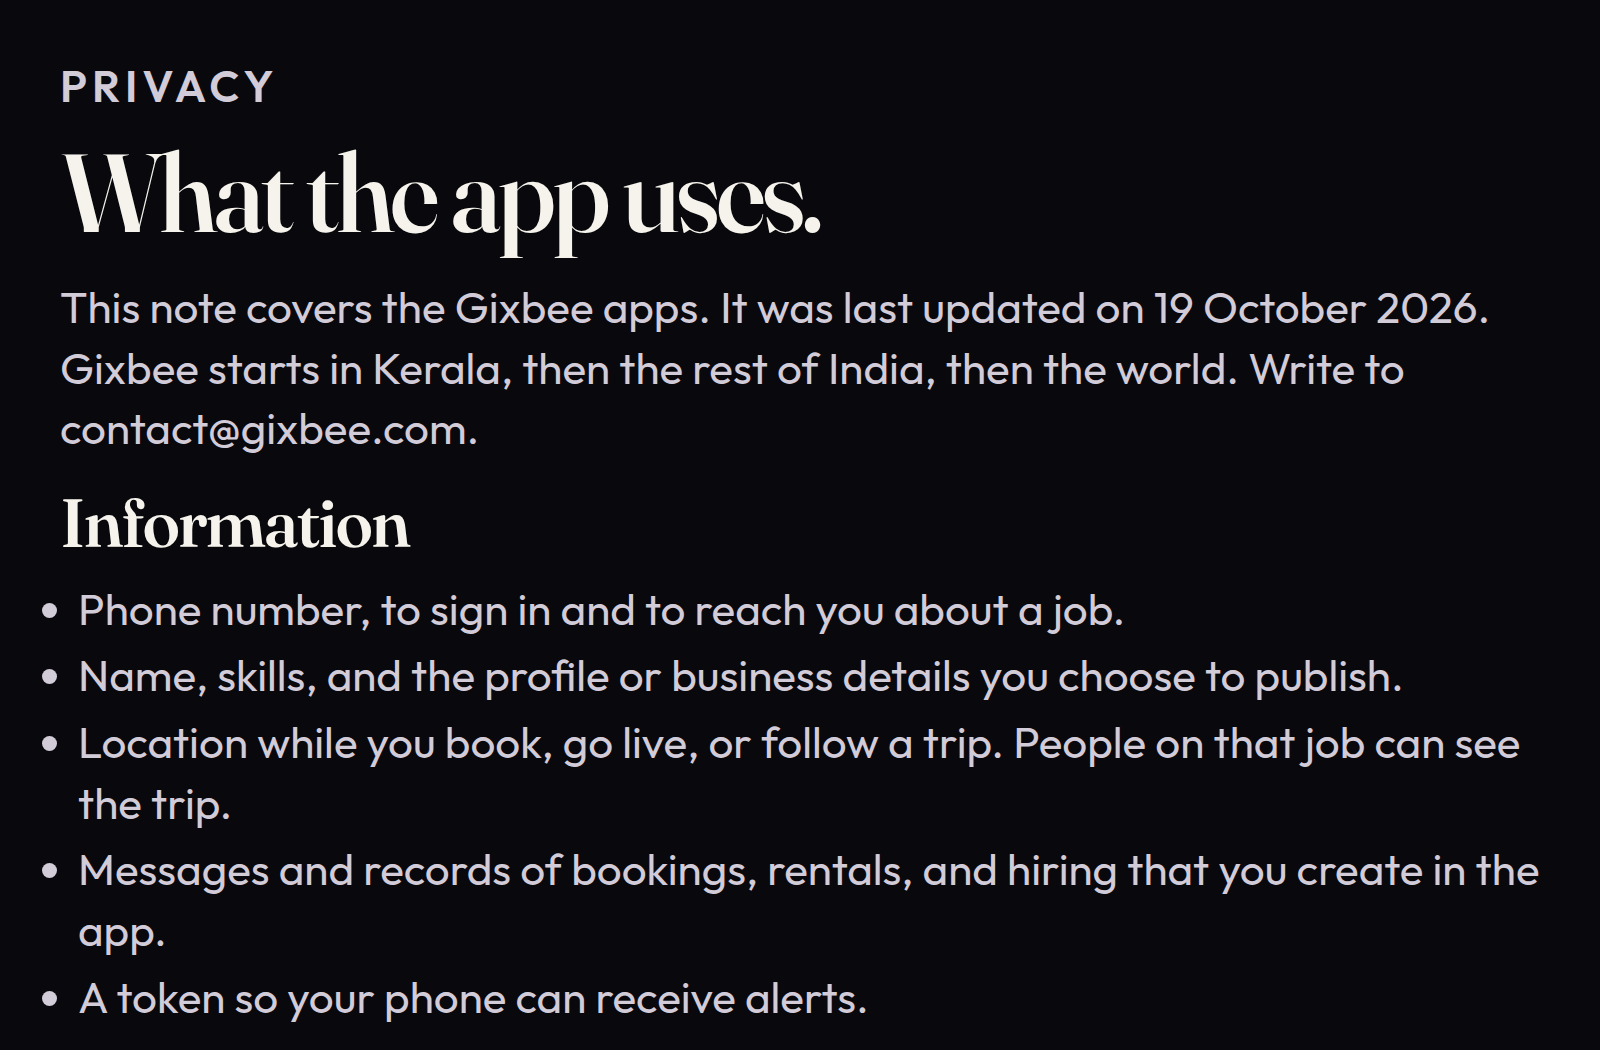
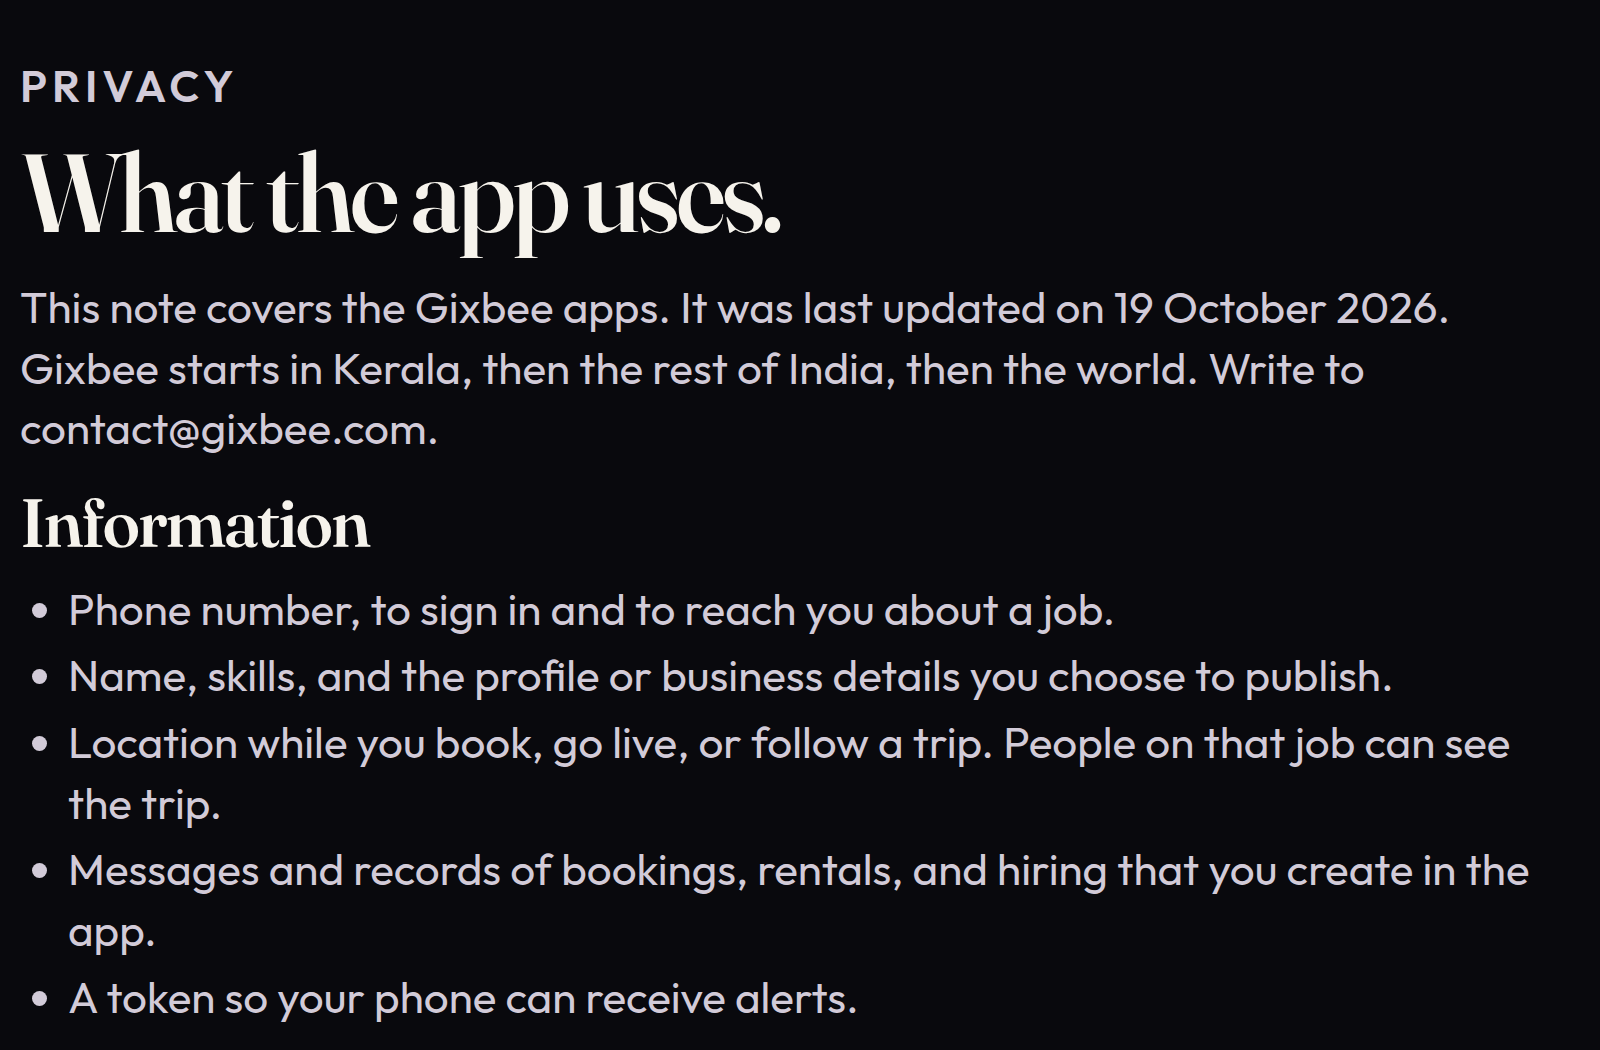
Tighten the side margins on every public page.
The text now uses more of the screen width on a phone, and the Google Sites pictures match.

diff --git a/site/styles.css b/site/styles.css
@@ -52,7 +52,7 @@ a { color: inherit; }
   padding: 8px 12px;
 }
 
-.wrap { width: min(var(--max), calc(100% - 40px)); margin: 0 auto; }
+.wrap { width: min(var(--max), calc(100% - 24px)); margin: 0 auto; }
 .kicker {
   margin: 0 0 10px;
   font-size: 12px;
@@ -276,13 +276,14 @@ footer a { color: var(--muted); }
   td:first-child { width: auto; padding-bottom: 4px; }
 }
 @media (max-width: 640px) {
-  .wrap { width: min(var(--max), calc(100% - 32px)); }
+  .wrap { width: min(var(--max), calc(100% - 16px)); }
   .sheet div, .facts div, .steps article { grid-template-columns: 1fr; gap: 4px; }
   body { font-size: 16px; }
   h1 { font-size: 40px; }
   h2 { font-size: 30px; }
   h3 { font-size: 22px; }
   .card { padding: 18px; }
+  .prose ul { padding-left: 22px; }
   .steps article { padding: 16px 0; }
   footer .wrap { flex-direction: column; align-items: flex-start; }
 }
@@ -299,7 +300,7 @@ footer a { color: var(--muted); }
    1600px image at about a quarter of this size, and smaller type disappears. */
 body.capture { font-size: 56px; line-height: 1.38; }
 body.capture .site-header { display: none; }
-body.capture .wrap { width: min(1480px, calc(100% - 96px)); }
+body.capture .wrap { width: calc(100% - 40px); }
 body.capture .kicker { font-size: 32px; letter-spacing: 0.12em; margin-bottom: 18px; }
 body.capture h1 { font-size: 112px; line-height: 1.02; margin-bottom: 28px; }
 body.capture h2 { font-size: 76px; line-height: 1.05; margin-bottom: 20px; }
@@ -351,6 +352,7 @@ body.capture tr { border-top: 1px solid var(--line); padding: 28px 0 8px; }
 body.capture td, body.capture th { border-top: 0; padding: 0 0 12px; font-size: 44px; }
 body.capture td:first-child { font-size: 48px; padding-bottom: 6px; }
 body.capture .prose { max-width: none; }
+body.capture .prose ul { padding-left: 48px; }
 body.capture .prose h2 { font-size: 68px; margin-top: 28px; }
 body.capture .prose h2:first-child { margin-top: 0; }
 body.capture .prose h3 { font-size: 40px; margin-top: 28px; }
